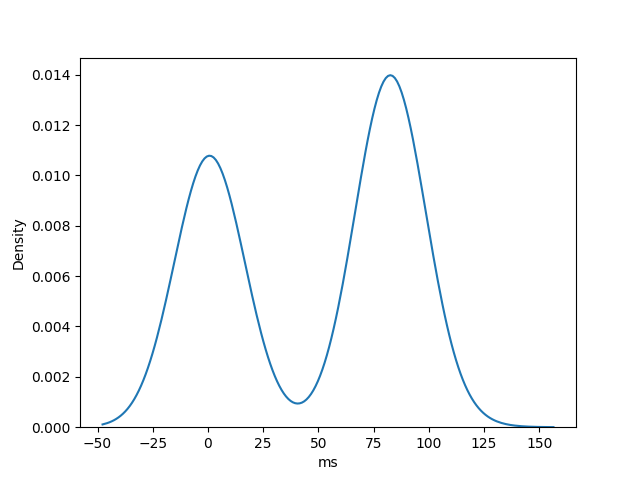
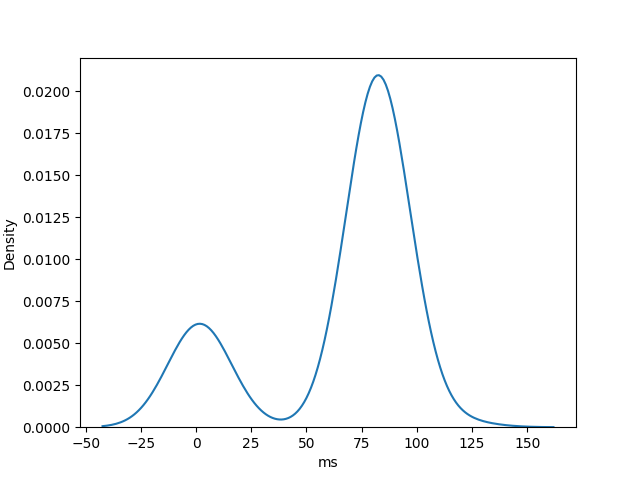
rm 0 avg

diff --git a/plots/README.md b/plots/README.md
@@ -9,13 +9,13 @@
 
 | Key         | Value                        |
 | ----------- | ---------------------------- |
-| Completions | 111  |
-| Mean        | 47ms |
-| STD         | 41ms  |
-| Q0          | 0ms   |
-| Q50         | 81ms  |
+| Completions | 76  |
+| Mean        | 65ms |
+| STD         | 34ms  |
+| Q0          | 1ms   |
+| Q50         | 82ms  |
 | Q95         | 84ms  |
-| Q100        | 108ms |
+| Q100        | 118ms |
 
 ![fig.img](https://raw.githubusercontent.com/ms-jpq/vim.bench/main/plots/c6426ab57e802fa08dcffe99fbfeac14.png)
 
@@ -28,13 +28,13 @@
 
 | Key         | Value                        |
 | ----------- | ---------------------------- |
-| Completions | 136  |
-| Mean        | 45ms |
-| STD         | 43ms  |
-| Q0          | 0ms   |
-| Q50         | 81ms  |
-| Q95         | 90ms  |
-| Q100        | 137ms |
+| Completions | 75  |
+| Mean        | 88ms |
+| STD         | 7ms  |
+| Q0          | 81ms   |
+| Q50         | 86ms  |
+| Q95         | 103ms  |
+| Q100        | 121ms |
 
 ![fig.img](https://raw.githubusercontent.com/ms-jpq/vim.bench/main/plots/78cc3e419d8cc2f802e43d486be1fb4f.png)
 
@@ -47,13 +47,13 @@
 
 | Key         | Value                        |
 | ----------- | ---------------------------- |
-| Completions | 146  |
-| Mean        | 48ms |
-| STD         | 44ms  |
-| Q0          | 0ms   |
-| Q50         | 82ms  |
-| Q95         | 90ms  |
-| Q100        | 179ms |
+| Completions | 79  |
+| Mean        | 81ms |
+| STD         | 33ms  |
+| Q0          | 2ms   |
+| Q50         | 86ms  |
+| Q95         | 103ms  |
+| Q100        | 216ms |
 
 ![fig.img](https://raw.githubusercontent.com/ms-jpq/vim.bench/main/plots/58dd12a5c42471f3e2e23eec0c8f0800.png)
 
@@ -66,13 +66,13 @@
 
 | Key         | Value                        |
 | ----------- | ---------------------------- |
-| Completions | 157  |
-| Mean        | 68ms |
-| STD         | 74ms  |
-| Q0          | 0ms   |
-| Q50         | 82ms  |
-| Q95         | 211ms  |
-| Q100        | 329ms |
+| Completions | 103  |
+| Mean        | 107ms |
+| STD         | 60ms  |
+| Q0          | 2ms   |
+| Q50         | 83ms  |
+| Q95         | 236ms  |
+| Q100        | 336ms |
 
 ![fig.img](https://raw.githubusercontent.com/ms-jpq/vim.bench/main/plots/bc190c7ef28b48a0f7c19b0b8622951d.png)
 
@@ -85,13 +85,13 @@
 
 | Key         | Value                        |
 | ----------- | ---------------------------- |
-| Completions | 158  |
-| Mean        | 56ms |
-| STD         | 62ms  |
-| Q0          | 0ms   |
-| Q50         | 81ms  |
-| Q95         | 203ms  |
-| Q100        | 299ms |
+| Completions | 95  |
+| Mean        | 100ms |
+| STD         | 46ms  |
+| Q0          | 2ms   |
+| Q50         | 84ms  |
+| Q95         | 202ms  |
+| Q100        | 302ms |
 
 ![fig.img](https://raw.githubusercontent.com/ms-jpq/vim.bench/main/plots/21b9d82fd3a81ea3309e1d5ea8b54945.png)
 
@@ -104,13 +104,13 @@
 
 | Key         | Value                        |
 | ----------- | ---------------------------- |
-| Completions | 95  |
-| Mean        | 30ms |
-| STD         | 22ms  |
-| Q0          | 0ms   |
-| Q50         | 33ms  |
-| Q95         | 65ms  |
-| Q100        | 75ms |
+| Completions | 68  |
+| Mean        | 41ms |
+| STD         | 12ms  |
+| Q0          | 29ms   |
+| Q50         | 36ms  |
+| Q95         | 64ms  |
+| Q100        | 79ms |
 
 ![fig.img](https://raw.githubusercontent.com/ms-jpq/vim.bench/main/plots/b5a0628258631a855e2b954dce9d61b7.png)
 
@@ -123,13 +123,13 @@
 
 | Key         | Value                        |
 | ----------- | ---------------------------- |
-| Completions | 131  |
-| Mean        | 44ms |
-| STD         | 39ms  |
-| Q0          | 0ms   |
-| Q50         | 43ms  |
-| Q95         | 98ms  |
-| Q100        | 136ms |
+| Completions | 75  |
+| Mean        | 73ms |
+| STD         | 24ms  |
+| Q0          | 39ms   |
+| Q50         | 80ms  |
+| Q95         | 105ms  |
+| Q100        | 114ms |
 
 ![fig.img](https://raw.githubusercontent.com/ms-jpq/vim.bench/main/plots/ad82d296990a5c5c2557f2e7af158e63.png)
 
@@ -142,13 +142,13 @@
 
 | Key         | Value                        |
 | ----------- | ---------------------------- |
-| Completions | 135  |
-| Mean        | 48ms |
-| STD         | 44ms  |
-| Q0          | 0ms   |
-| Q50         | 47ms  |
+| Completions | 78  |
+| Mean        | 82ms |
+| STD         | 26ms  |
+| Q0          | 36ms   |
+| Q50         | 89ms  |
 | Q95         | 117ms  |
-| Q100        | 147ms |
+| Q100        | 132ms |
 
 ![fig.img](https://raw.githubusercontent.com/ms-jpq/vim.bench/main/plots/675da12f4bded28a8a71ca93d7911b30.png)
 
@@ -161,13 +161,13 @@
 
 | Key         | Value                        |
 | ----------- | ---------------------------- |
-| Completions | 157  |
-| Mean        | 59ms |
-| STD         | 58ms  |
-| Q0          | 0ms   |
-| Q50         | 63ms  |
-| Q95         | 144ms  |
-| Q100        | 229ms |
+| Completions | 91  |
+| Mean        | 101ms |
+| STD         | 38ms  |
+| Q0          | 1ms   |
+| Q50         | 102ms  |
+| Q95         | 166ms  |
+| Q100        | 236ms |
 
 ![fig.img](https://raw.githubusercontent.com/ms-jpq/vim.bench/main/plots/77d454f58a6c11696a39a2b4a31ad13f.png)
 
@@ -180,13 +180,13 @@
 
 | Key         | Value                        |
 | ----------- | ---------------------------- |
-| Completions | 149  |
-| Mean        | 57ms |
-| STD         | 62ms  |
-| Q0          | 0ms   |
-| Q50         | 47ms  |
-| Q95         | 190ms  |
-| Q100        | 337ms |
+| Completions | 93  |
+| Mean        | 86ms |
+| STD         | 54ms  |
+| Q0          | 1ms   |
+| Q50         | 76ms  |
+| Q95         | 204ms  |
+| Q100        | 273ms |
 
 ![fig.img](https://raw.githubusercontent.com/ms-jpq/vim.bench/main/plots/3b523c9b210a67f020683294edb06b04.png)
 
